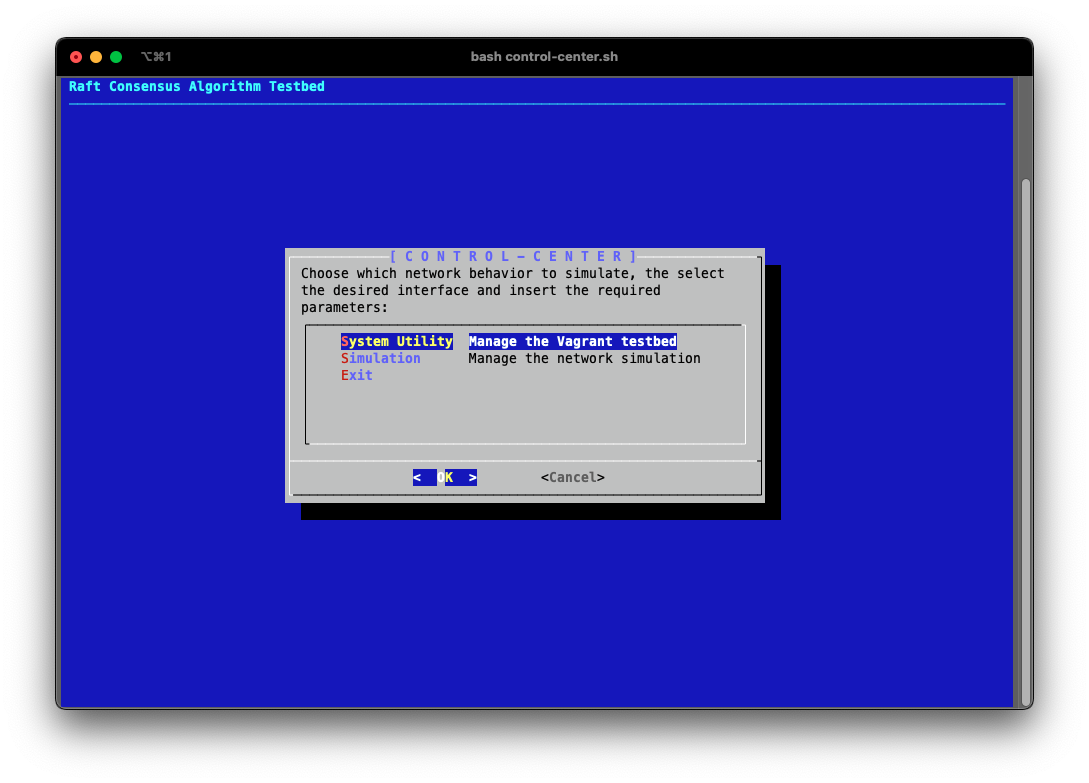
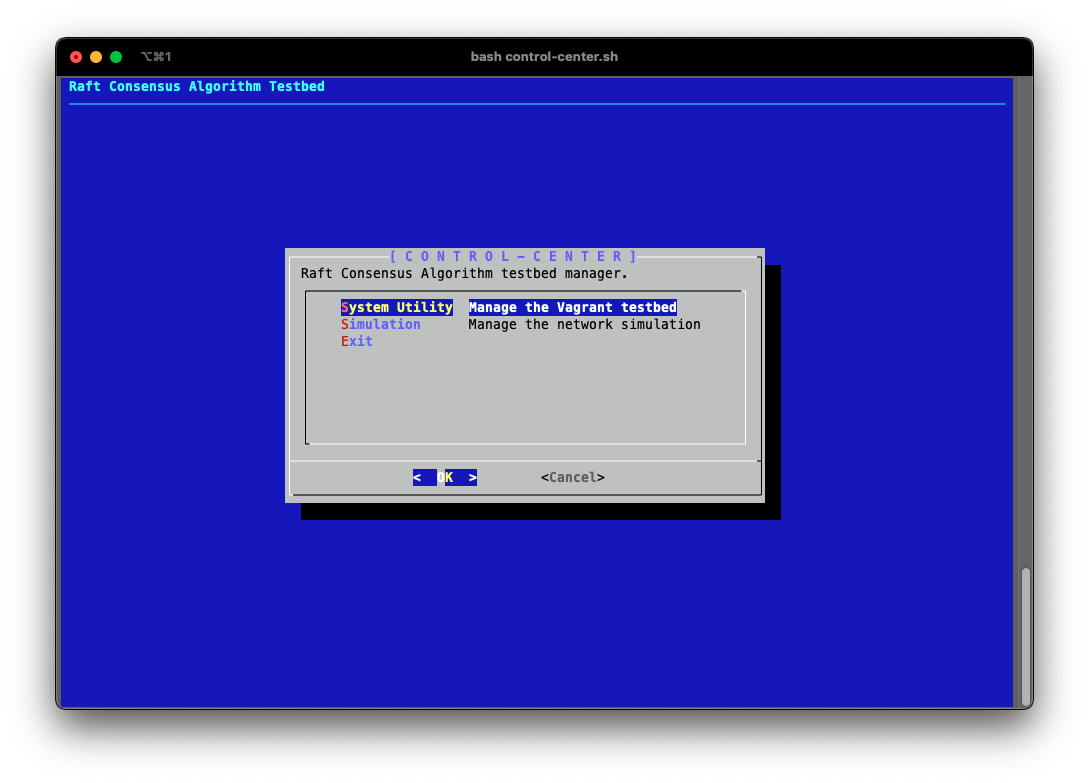
Control center screenshots and minor updates 📺

Changed region(s): [[0.281, 0.3372, 0.6556, 0.4904], [0.9366, 0.2146, 0.9679, 0.7356], [0.6556, 0.3678, 0.6869, 0.3985]]

diff --git a/README.md b/README.md
@@ -237,7 +237,9 @@ Each `node` machine is identical to the other (every one of them is configured b
 As disclosed above, link failure is handled using the **traffic control** tool (`tc`) that comes built-in Linux. In order to make testing easier we created a script that, running on the host machine and using `vagrant ssh`, can add traffic control rules to the switch's interfaces and, using `netem` simulate the different behaviors listed in the previous section. Moreover, the user can halt VMs and kill processes in order to simulate processes crashing.
 Said script is `control-center.sh` and looks like this:
 
-[![control-center.sh screenshot][control-center]]()
+[![control-center.sh screenshot - main menu][control-center]]()
+
+[![control-center.sh screenshot - simulation menu][control-center-simulation]]()
 
 <p align="right">(<a href="#top">back to top</a>)</p>
 
@@ -297,3 +299,5 @@ Chiara Magri - `chiara.magri[at]mail.polimi.it`
 [net-topology]: media/net_topology.png
 
 [control-center]: media/control-center.png
+
+[control-center-simulation]: media/control-center-simulation.png
